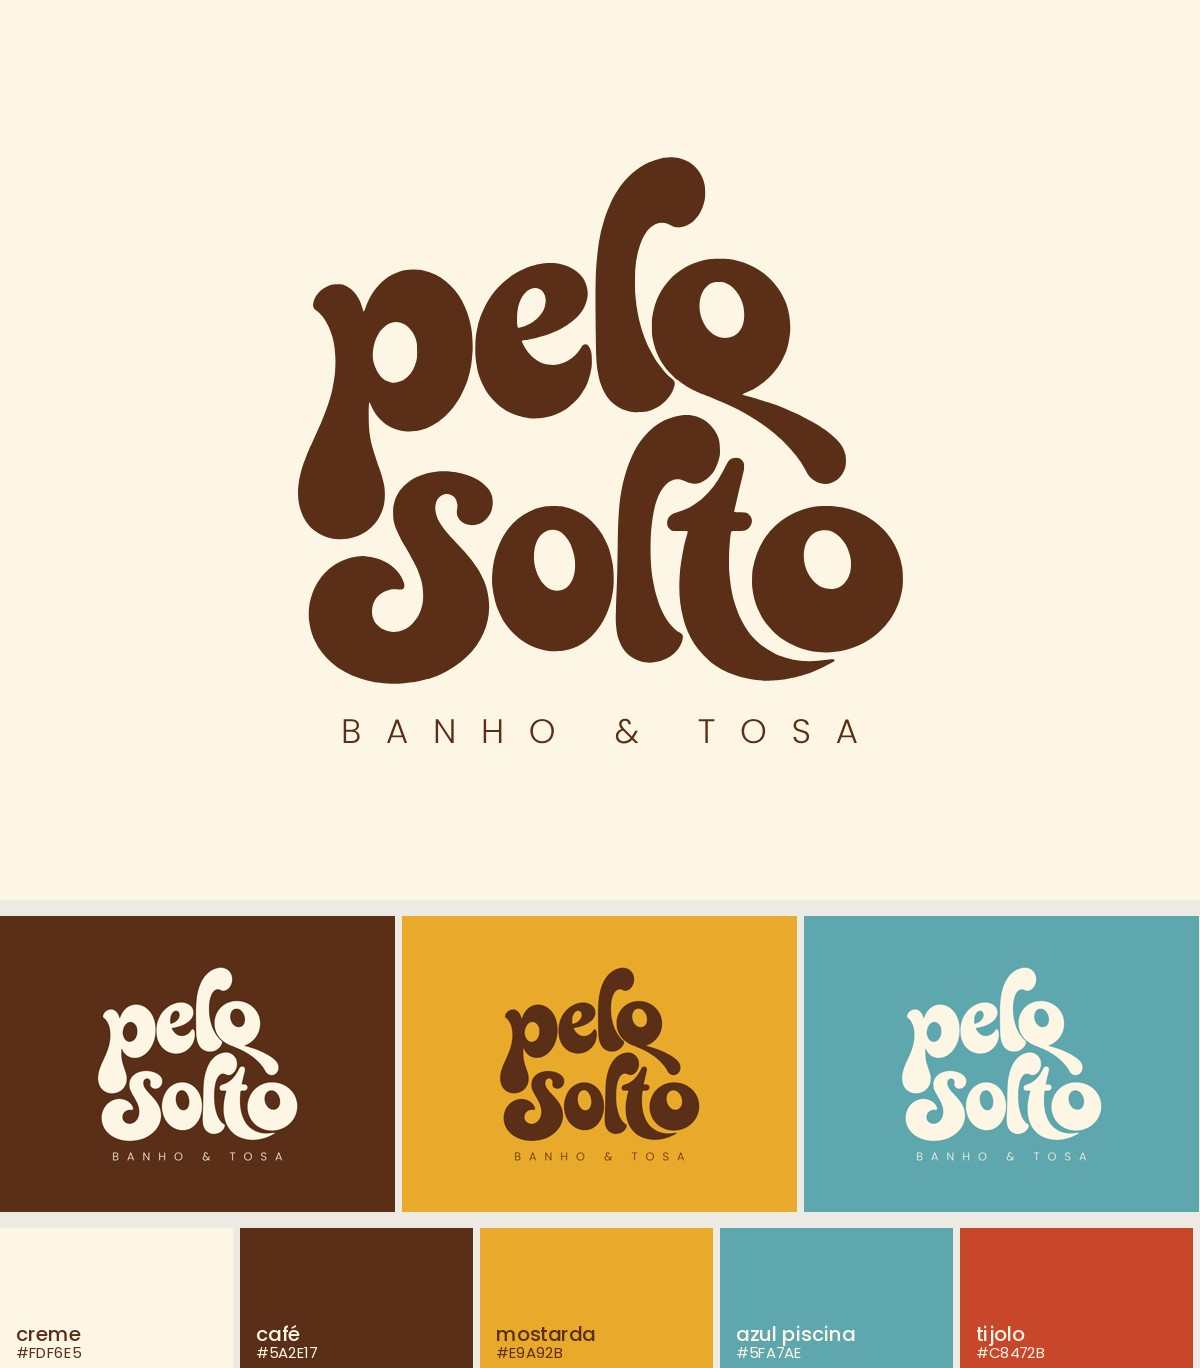
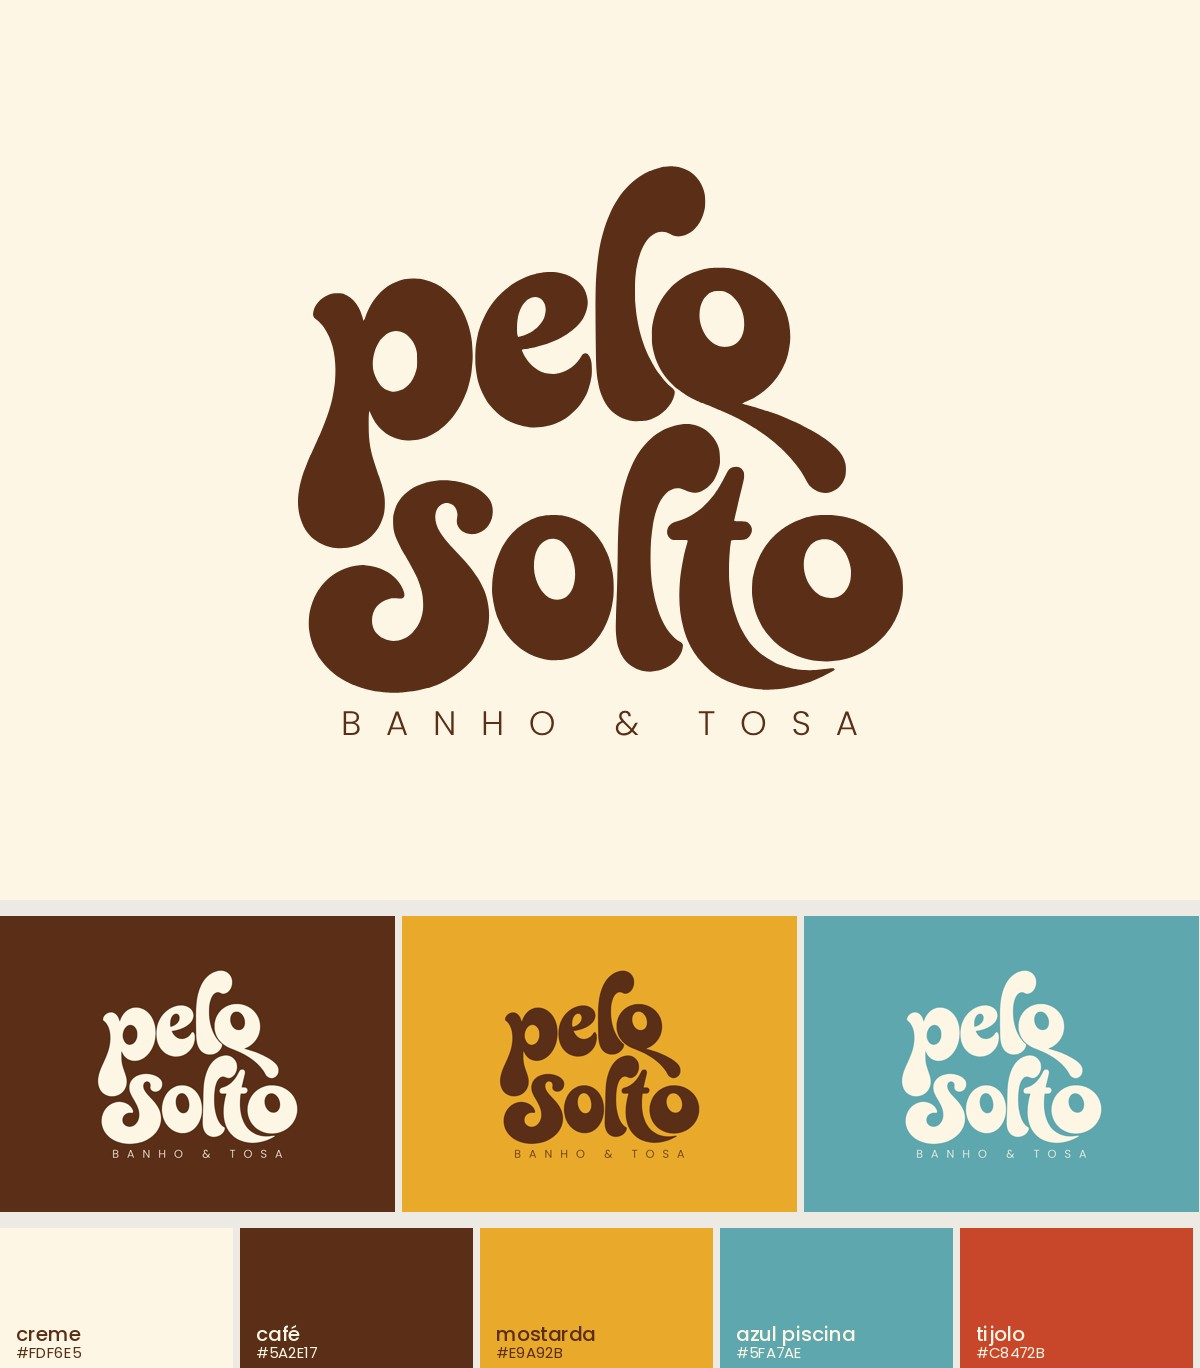
EMS: pelo solto, BANHO & TOSA mais perto do nome (vão de 17 px)
Claude-Session: https://claude.ai/code/session_01CmCiK9WG5RWJH1hBNUU9U9

diff --git a/Emi/ems-5-direcoes-pet/projeto/marcas/pelo-solto/logo.html b/Emi/ems-5-direcoes-pet/projeto/marcas/pelo-solto/logo.html
@@ -9,10 +9,10 @@
 @font-face { font-family: PoppinsL; src: url(../../fonts/Poppins-300.woff2); font-weight: 300; }
 html, body { margin: 0; }
 .palco { position: relative; overflow: hidden; background: var(--fundo); }
-.logo { position: absolute; left: 50%; top: 50%; width: 645px; height: 640px; transform: translate(calc(-50% + var(--dx, 0px)), calc(-50% + var(--dy, 0px))) scale(var(--escala, 1)); }
+.logo { position: absolute; left: 50%; top: 50%; width: 645px; height: 622px; transform: translate(calc(-50% + var(--dx, 0px)), calc(-50% + var(--dy, 0px))) scale(var(--escala, 1)); }
 .nome { position: absolute; left: 0; top: 0; width: 645px; height: 560px; background: var(--tinta);
   -webkit-mask: url(nome.svg) 0 0 / 645px 560px no-repeat; mask: url(nome.svg) 0 0 / 645px 560px no-repeat; }
-.sub { position: absolute; top: 584px; font: 300 34px/1 PoppinsL; color: var(--tinta); white-space: nowrap; }
+.sub { position: absolute; top: 567px;   /* vão de 18 px até a base do nome (a Emi: "aproxima") */ font: 300 34px/1 PoppinsL; color: var(--tinta); white-space: nowrap; }
 </style></head><body>
 <div class="palco"><div class="logo"><div class="nome"></div><div class="sub" id="sub">BANHO &amp; TOSA</div></div></div>
 <script>
